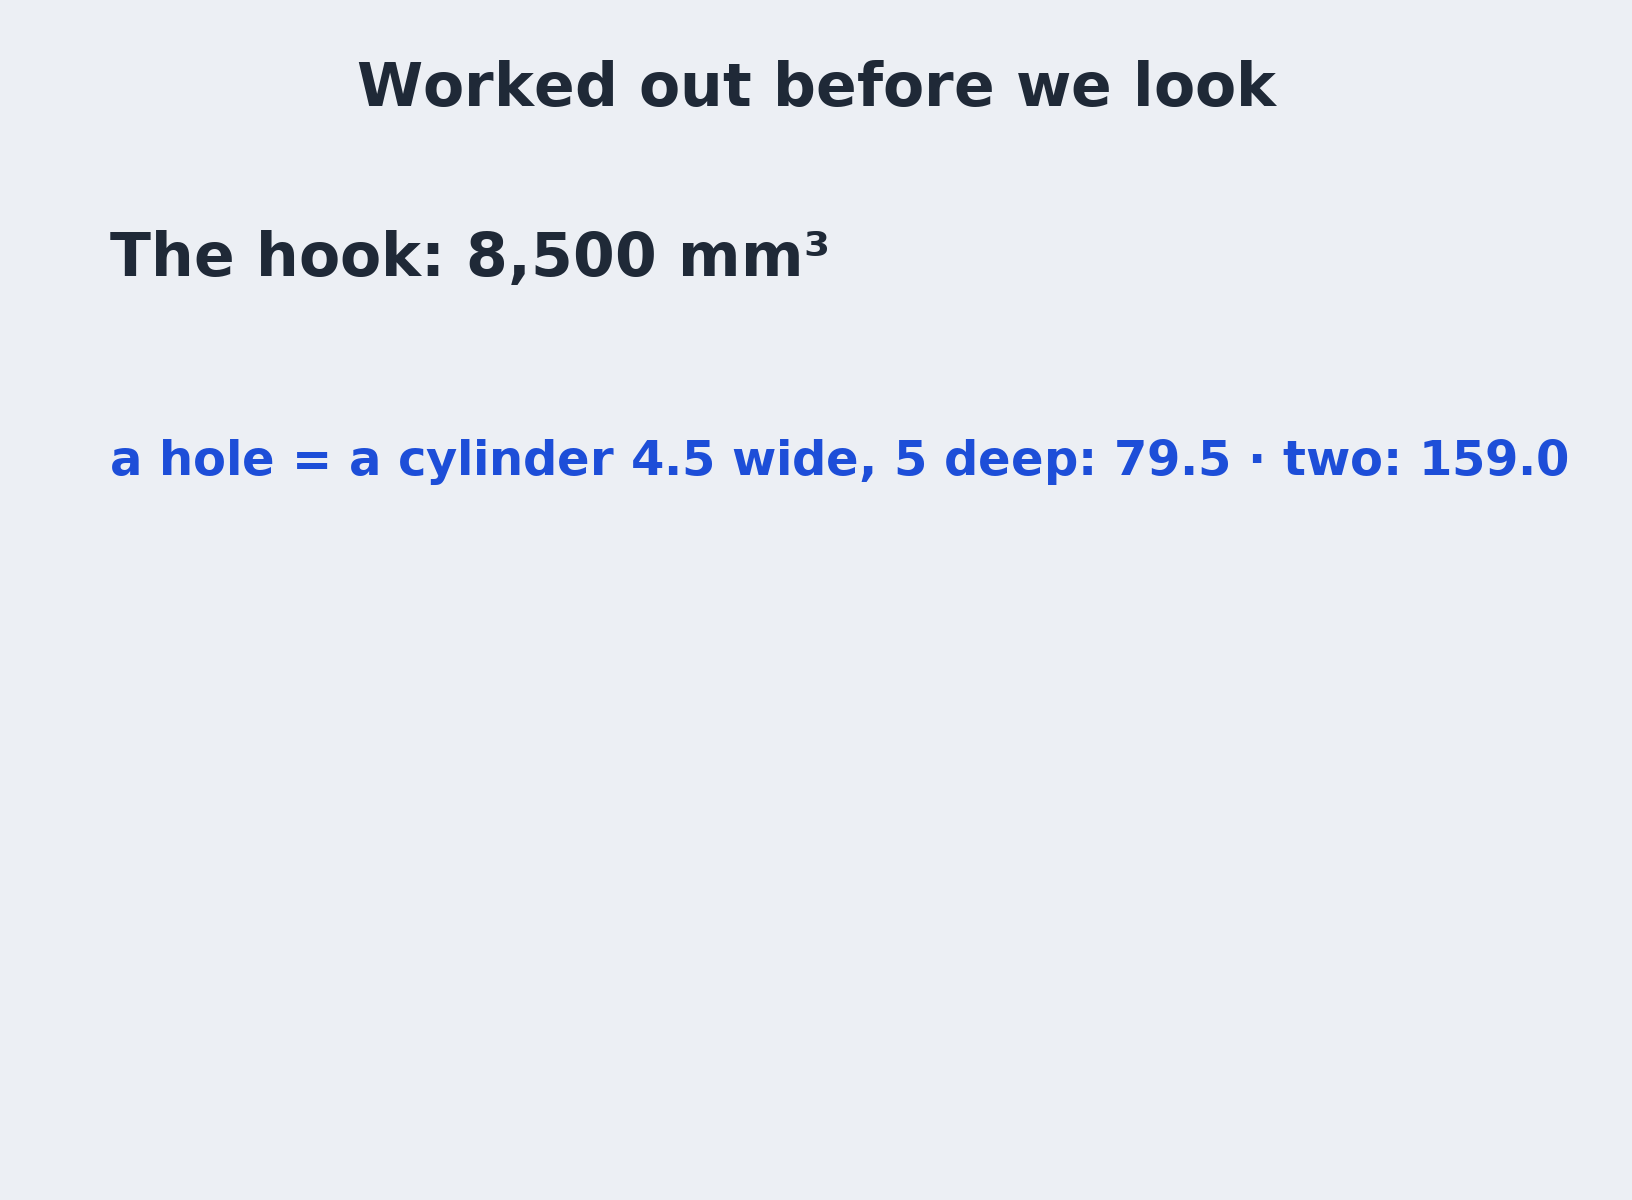
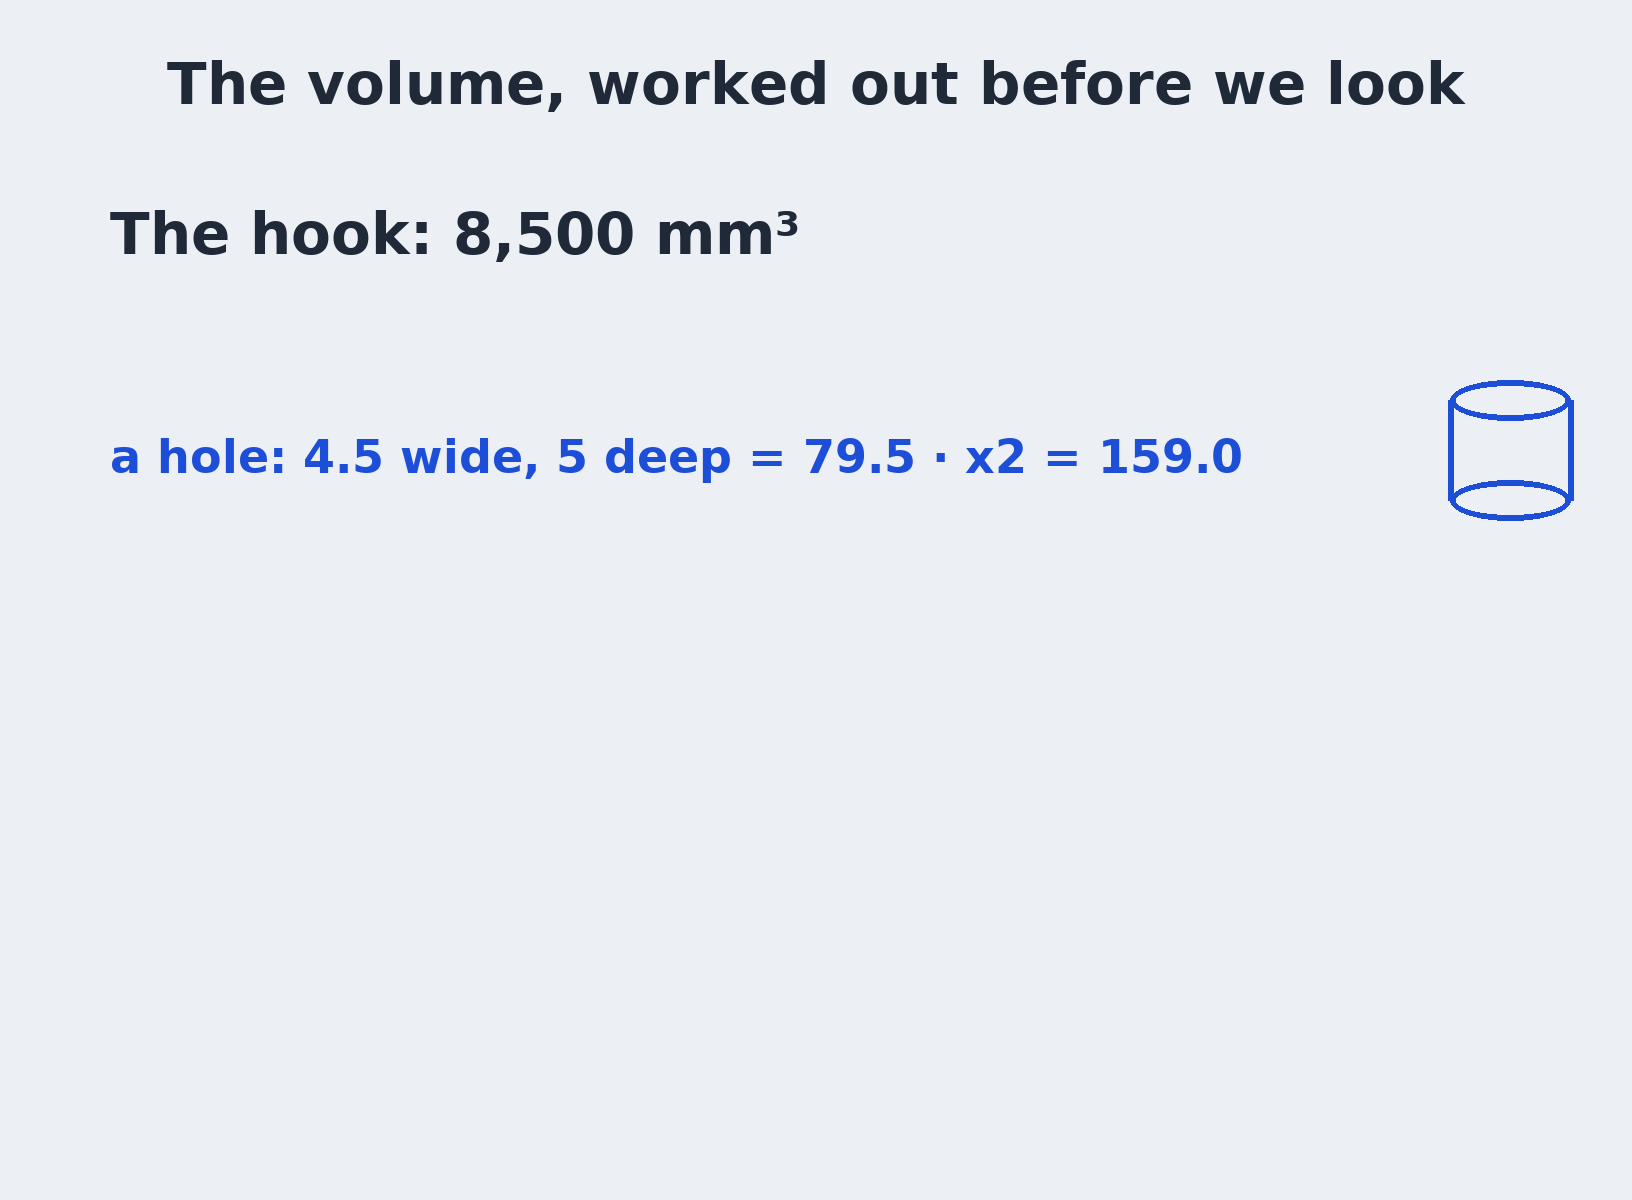
Lesson 4 cards after watch-through cuts 1-2: straight-on overlays inside the plate, clearance and formula cards fit, Claude's -10 from the right edge in four steps, the volume card with a cylinder and a corner sliver; README: fillets picked by edge points kept at widths 26/30/40

Changed region(s): [[0.0938, 0.0308, 0.9062, 0.0925], [0.0625, 0.3083, 0.9688, 0.4317], [0.0625, 0.1542, 0.5312, 0.2467]]

diff --git a/video/draw4.py b/video/draw4.py
@@ -75,7 +75,7 @@ def plate_front(d, cx, top, width_mm, holes_y, s=14, col=None, label_sides=True,
 def card_formula():
     for k in range(3):
         im, d = canvas()
-        text(d, (W / 2, 50), 'The hole, 10 from the left edge', 60, anchor='ma')
+        text(d, (W / 2, 50), ('The hole, 10 from the left edge', 'Make it 30 wide', 'Write it as width / 2')[k], 60, anchor='ma')
         if k == 0:
             plate_front(d, W / 2, 290, 20, 10, col=GREEN)
             chip(d, (W / 2, 1110), 'width 20: the middle is 10', 52, anchor='m', bg=GREEN)
@@ -84,9 +84,9 @@ def card_formula():
             chip(d, (W / 2, 1110), 'width 30: still 10 · off the middle', 52, anchor='m', bg=RED)
         else:
             text(d, (W / 2, 50), '', 10)
-            plate_front(d, W / 2, 290, 30, 15, col=GREEN)
-            chip(d, (W / 2, 1040), 'width / 2 = 15', 64, anchor='m', bg=GREEN)
-            text(d, (W / 2, 1120), '/ = divide: half the width', 50, GREY, anchor='ma')
+            plate_front(d, W / 2, 230, 30, 15, s=12, col=GREEN)
+            chip(d, (W / 2, 1030), 'width / 2 = 15', 60, anchor='m', bg=GREEN)
+            text(d, (W / 2, 1140), '/ = divide: half the width', 44, GREY, anchor='ma')
         save(im, f'card-formula-{k + 1}.png')
 
 
@@ -109,19 +109,19 @@ def card_clearance():
         else:
             d.rectangle((cx - pw / 2, top, cx + pw / 2, top + 900), fill=(214, 222, 236), outline=INK, width=5)
         sc = 4 * s
-        d.rectangle((cx - 420, top + 450 - sc / 2, cx + 380, top + 450 + sc / 2), fill=(150, 156, 168), outline=INK, width=5)
+        d.rectangle((cx - 420, top + 450 - sc / 2, cx + 260, top + 450 + sc / 2), fill=(150, 156, 168), outline=INK, width=5)
         d.rectangle((cx - 470, top + 450 - 4 * s, cx - 420, top + 450 + 4 * s), fill=(150, 156, 168), outline=INK, width=5)
-        chip(d, (1090, 300), 'M4 screw: 4 mm', 54, anchor='l', bg=INK)
+        chip(d, (900, 300), 'M4 screw: 4 mm', 50, anchor='l', bg=INK)
         if k >= 1:
-            chip(d, (1090, 420), 'hole: 4.5 mm', 54, anchor='l', bg=BLUE)
+            chip(d, (900, 420), 'hole: 4.5 mm', 50, anchor='l', bg=BLUE)
             for yy in (top + 450 - 4.5 * s / 2 + 6, top + 450 + sc / 2 + 6):
                 d.rectangle((cx - pw / 2 + 6, yy, cx + pw / 2 - 6, yy + 0.25 * s - 12), fill=AMBER)
-            chip(d, (1090, 540), 'the gap: clearance', 54, anchor='l', bg=AMBER)
+            chip(d, (900, 540), 'gap: clearance', 50, anchor='l', bg=AMBER)
         if k == 2:
-            text(d, (1000, 700), "SolidCraft's M4 setting", 52, INK)
+            text(d, (900, 700), "SolidCraft's M4 setting", 46, INK)
             for i, (fit_, lab) in enumerate((('close', 'close'), ('normal', 'normal'), ('loose', 'loose'))):
                 col = GREEN if fit_ == 'normal' else GREY
-                chip(d, (1000, 790 + i * 110), f'{lab}  {sizes[fit_]:g} mm', 56, anchor='l', bg=col)
+                chip(d, (900, 790 + i * 110), f'{lab}  {sizes[fit_]:g} mm', 50, anchor='l', bg=col)
         save(im, f'card-clearance-{k + 1}.png')
 
 
@@ -158,16 +158,22 @@ def card_expected():
     hole = math.pi * 2.25 ** 2 * 5
     fil = 2 ** 2 * (1 - math.pi / 4) * 20
     lines = [('The hook: 8,500 mm³', INK),
-             (f'a hole = a cylinder 4.5 wide, 5 deep: {hole:.1f} · two: {2 * round(hole, 1):.1f}', BLUE),
-             (f'a rounded edge = a corner sliver, 20 long: {fil:.1f} · two: {2 * round(fil, 1):.1f}', AMBER),
+             (f'a hole: 4.5 wide, 5 deep = {hole:.1f} · x2 = {2 * round(hole, 1):.1f}', BLUE),
+             (f'a rounded edge: sliver 20 long = {fil:.1f} · x2 = {2 * round(fil, 1):.1f}', AMBER),
              (f'8,500 − {2 * round(hole, 1):.1f} − {2 * round(fil, 1):.1f} = {8500 - 2 * round(hole, 1) - 2 * round(fil, 1):,.1f} mm³', GREEN)]
     assert abs((8500 - 2 * round(hole, 1) - 2 * round(fil, 1)) - round(h['volume_mm3'], 1)) < 0.06, h['volume_mm3']
     for k in range(4):
         im, d = canvas()
-        text(d, (W / 2, 50), 'Worked out before we look', 60, anchor='ma')
+        text(d, (W / 2, 50), 'The volume, worked out before we look', 58, anchor='ma')
         for i, (s, col) in enumerate(lines[:k + 1]):
-            size = 48 if i in (1, 2) else 60
-            text(d, (110, 220 + i * 210), s, size, col)
+            size = 46 if i in (1, 2) else 58
+            text(d, (110, 200 + i * 230), s, size, col)
+        if k >= 1:      # the hole: a small cylinder 4.5 wide, 5 deep
+            d.ellipse((1450, 380, 1570, 420), outline=BLUE, width=6); d.ellipse((1450, 480, 1570, 520), outline=BLUE, width=6)
+            d.line((1450, 400, 1450, 500), fill=BLUE, width=6); d.line((1570, 400, 1570, 500), fill=BLUE, width=6)
+        if k >= 2:      # the corner sliver a 2 mm fillet removes: a square corner minus a quarter circle
+            d.rectangle((1450, 610, 1570, 730), fill=AMBER)
+            d.pieslice((1450, 610, 1690, 850), 180, 270, fill=BG)
         save(im, f'card-expected-{k + 1}.png')
 
 
@@ -309,15 +315,15 @@ def overlays():
         dashed(d, (cx, y0 - 60), (cx, y1 + 20), INK, width=8, dash=34, gap=20)
         s = (x1 - x0) / width_mm
         hx = x0 + left * s
-        yy = y0 - 90
+        yy = y0 + 200                   # inside the plate, under its top edge (the ribbon is above it), above the top hole
         for a, b, lab in ((x0, hx, f'{left:g}'), (hx, x1, f'{width_mm - left:g}')):
             d.line((a, yy, b, yy), fill=col, width=12)
             for x in (a, b):
                 d.line((x, yy - 34, x, yy + 34), fill=col, width=12)
-            f = font(B, 110)
+            f = font(B, 100)
             tw = f.getlength(lab)
-            d.rounded_rectangle(((a + b) / 2 - tw / 2 - 24, yy - 190, (a + b) / 2 + tw / 2 + 24, yy - 50), radius=20, fill=col)
-            d.text(((a + b) / 2, yy - 120), lab, font=f, fill=PAPER, anchor='mm')
+            d.rounded_rectangle(((a + b) / 2 - tw / 2 - 22, yy - 170, (a + b) / 2 + tw / 2 + 22, yy - 40), radius=20, fill=col)
+            d.text(((a + b) / 2, yy - 105), lab, font=f, fill=PAPER, anchor='mm')
         name = 'ov-' + still.replace('hand-', '')
         ov.save(os.path.join(F, name))
         out[name] = [x0, y0, x1, y1]
@@ -326,22 +332,31 @@ def overlays():
 
 
 def card_origin():
-    """F28: A1's circles, centre typed as -10: 10 to the left of the origin, which sits on the plate's right edge."""
+    """F28: A1's circles, centre typed as -10: 10 to the left of the origin, which sits on the plate's right edge. 3 steps."""
+    for k in range(3):
+        im, d = canvas()
+        text(d, (W / 2, 40), "Claude's -10: from the right edge", 60, anchor='ma')
+        SC = 12
+        x0, y0, w, h = plate_front(d, W / 2, 220, 20, 10, s=SC, label_sides=False, mid=False)
+        ox, oy = x0 + w, y0 + h
+        d.ellipse((ox - 18, oy - 18, ox + 18, oy + 18), fill=RED)
+        chip(d, (ox + 40, oy - 40), 'origin (lesson 2)', 48, anchor='l', bg=RED)
+        if k >= 1:
+            hy = y0 + 15 * SC
+            d.line((x0 + 10 * SC, hy, ox, hy), fill=RED, width=10)
+            for xx in (x0 + 10 * SC, ox):
+                d.line((xx, hy - 24, xx, hy + 24), fill=RED, width=10)
+            text(d, (x0 + 15 * SC, hy - 80), '10', 64, RED, anchor='ma')
+            chip(d, (ox + 40, hy - 30), 'centre (-10, 45)', 46, anchor='l', bg=INK)
+        if k >= 2:
+            chip(d, (W / 2, 1110), 'ours: 10 from the left edge · same mistake, other side', 44, anchor='m', bg=AMBER)
+        save(im, f'card-a1-origin-{k + 1}.png')
     im, d = canvas()
-    text(d, (W / 2, 40), "Claude's -10: from the right edge", 60, anchor='ma')
-    SC = 12
-    x0, y0, w, h = plate_front(d, W / 2, 220, 20, 10, s=SC, label_sides=False, mid=False)
-    ox, oy = x0 + w, y0 + h
-    d.ellipse((ox - 18, oy - 18, ox + 18, oy + 18), fill=RED)
-    chip(d, (ox + 40, oy - 40), 'origin (lesson 2)', 48, anchor='l', bg=RED)
-    hy = y0 + 15 * SC
-    d.line((x0 + 10 * SC, hy, ox, hy), fill=RED, width=10)
-    for xx in (x0 + 10 * SC, ox):
-        d.line((xx, hy - 24, xx, hy + 24), fill=RED, width=10)
-    text(d, (x0 + 15 * SC, hy - 80), '10', 64, RED, anchor='ma')
-    chip(d, (ox + 40, hy - 30), 'centre (-10, 45)', 46, anchor='l', bg=INK)
-    text(d, (W / 2, 1120), 'ours: 10 from the left edge · same mistake, other side', 46, GREY, anchor='ma')
-    save(im, 'card-a1-origin.png')
+    text(d, (W / 2, 40), "Claude's holes at 30 wide, before its fix", 56, anchor='ma')
+    x0, y0, w, h = plate_front(d, W / 2, 260, 30, 20, s=12, col=RED)
+    d.ellipse((x0 + w - 18, y0 + h - 18, x0 + w + 18, y0 + h + 18), fill=RED)
+    chip(d, (W / 2, 1110), 'still 10 from the right edge: 20 · 10, off the middle', 44, anchor='m', bg=RED)
+    save(im, 'card-a1-origin-4.png')
 
 
 def hooks():

diff --git a/README.md b/README.md
@@ -218,7 +218,7 @@ scoring rules were written to `out/l4/prereg.json` (committed) before the first 
 | L4-Q5 | M4: close **4.3**, normal **4.5**, loose **4.8**. | `out/l4/clearance.json` |
 | L4-Q6 | **A1 (not asked):** two circles on a YZ sketch, centres typed (-10, 45) / (-10, 15), a through cut, both long top edges filleted (8,306.62); message 2: width 30, then "the holes stayed at the old 10 mm mark, which is off-centre on a 30 mm plate", rewrote each centre as `width / 2` (8 calls; one refused try with `-width / 2`): 15 / 15. A1 got one stray "Your choice." from the driver (pre-registered trigger "no solid.hole call"; amended before B1): it offered to tie the holes to named sizes and made no call. **B1 (asked):** `hole_d`, `hole1_drop`, `hole2_drop`, `top_fillet`; after two refused batches, circles at typed (-10, ...) dimensioned in the same answer from the names (across the width `width / 2`); message 2: one `set_parameter width 30` (7 s): 15 / 15. Cost $0.4070 + $0.2538 (B1 under a live cost guard; B2, A2 not run by the budget rule). | `out/l4/runs/` |
 | L4-Q7 | A1 **re-centred by hand** (by Claude, after the change); B1 **kept centred by formula**. Both: box 25 x 30 x 60, 12,539.44, fillets kept. | `out/l4/compare.json` |
-| L4-Q8 | Replays (no AI, failed calls too): A1 and B1 15 calls each, first builds 8,306.62, after message 2 12,539.44; follow test (width 26 and 40): A1 after message 1 **fails** (16 / 10 at 26: its holes keep 10 from the right edge), after message 2 passes; B1 passes both times. STL checker: closed. | `out/l4/replay-*.json` |
+| L4-Q8 | Replays (no AI, failed calls too): A1 and B1 15 calls each, first builds 8,306.62, after message 2 12,539.44; follow test (width 26 and 40): A1 after message 1 **fails** (16 / 10 at 26: its holes keep 10 from the right edge), after message 2 passes; B1 passes both times. STL checker: closed. Both runs picked the fillet edges by a point on each ([0, -10, 60], [5, -10, 60]); both fillets were still there at widths 26, 30 and 40. | `out/l4/replay-*.json` |
 
 Lab notes: Claude Code redraws its scrollback, so a count of end-of-turn lines can stay flat (A1's turn 2 waited for the
 7-minute time-out, recording idle); the lesson 4 driver ends a turn when the newest end-of-turn line changes. A bash
